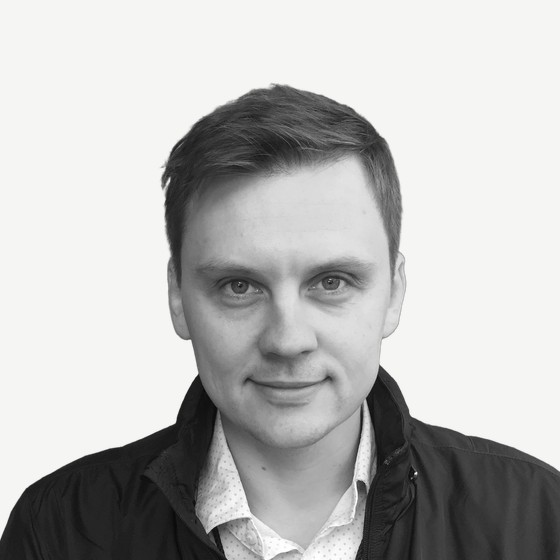
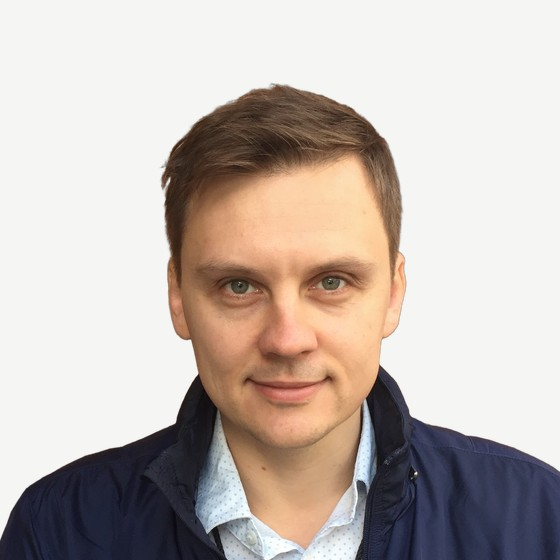
Show the founders in colour, in round frames
The marketing lead chose the colour photos on the same light background
(D22 a) and the round frame (D24, option 2).

Requested-by: Inessa Roman
Ticket: Positronic-Robotics/internal#1052 #refs

diff --git a/theme/positronic/static/css/home.css b/theme/positronic/static/css/home.css
@@ -416,7 +416,7 @@ a.standing-mark:hover { color: var(--accent, #b1e74f); }
   width: 156px;
   height: 156px;
   object-fit: cover;
-  border-radius: 3px;
+  border-radius: 50%;
 }
 
 .home .founder-name { margin: 16px 0 0; font-family: var(--display); font-weight: 700; font-size: 1.1rem; }
